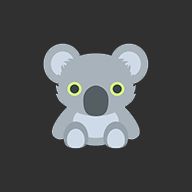
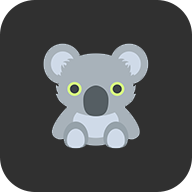
add manifest file

diff --git a/index.html b/index.html
@@ -3,9 +3,13 @@
 	<head>
 		<meta charset="UTF-8" />
 		<link rel="icon" type="image/png" href="/img/favicon.png" />
+		<meta name="description" content="An animal themed memory app." />
 		<meta name="viewport" content="width=device-width, initial-scale=1.0" />
 		<link rel="preconnect" href="https://fonts.googleapis.com" />
 		<link rel="preconnect" href="https://fonts.gstatic.com" crossorigin />
+		<link rel="manifest" href="app.webmanifest" />
+		<meta name="theme-color" content="#171717" />
+		<link rel="apple-touch-icon" href="icons/icon-512.png" />
 		<link
 			href="https://fonts.googleapis.com/css2?family=Inter:wght@200;300;400;500;600;700;800;900&display=swap"
 			rel="stylesheet"

diff --git a/src/components/Header.jsx b/src/components/Header.jsx
@@ -15,7 +15,7 @@ function Header() {
 		<>
 			<Wrapper>
 				<Heading>AniMemory 🐨</Heading>
-				<SettingsBtn onClick={toggleSettingsModal}>
+				<SettingsBtn aria-label="Settings" onClick={toggleSettingsModal}>
 					<SettingsIcon size={32} />
 				</SettingsBtn>
 			</Wrapper>
